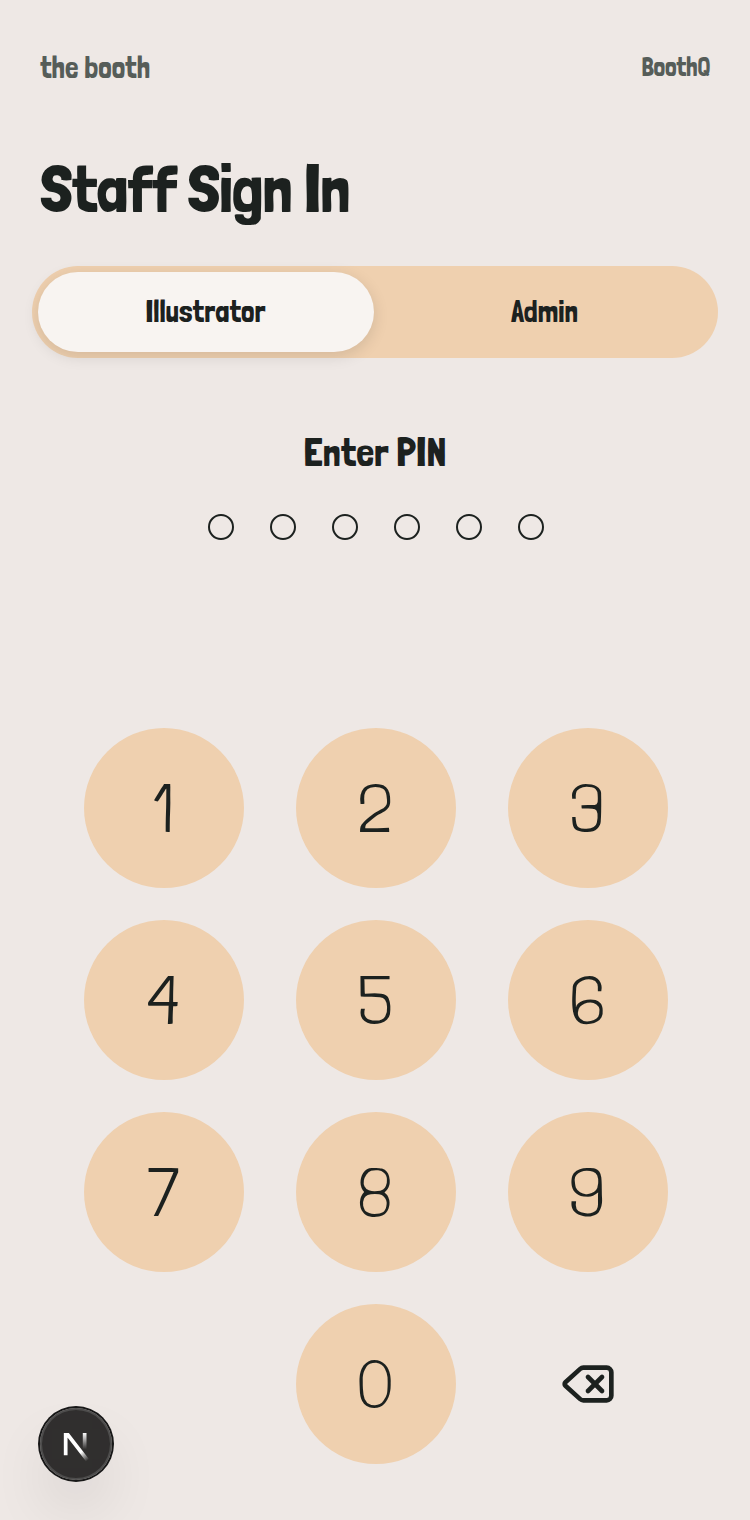
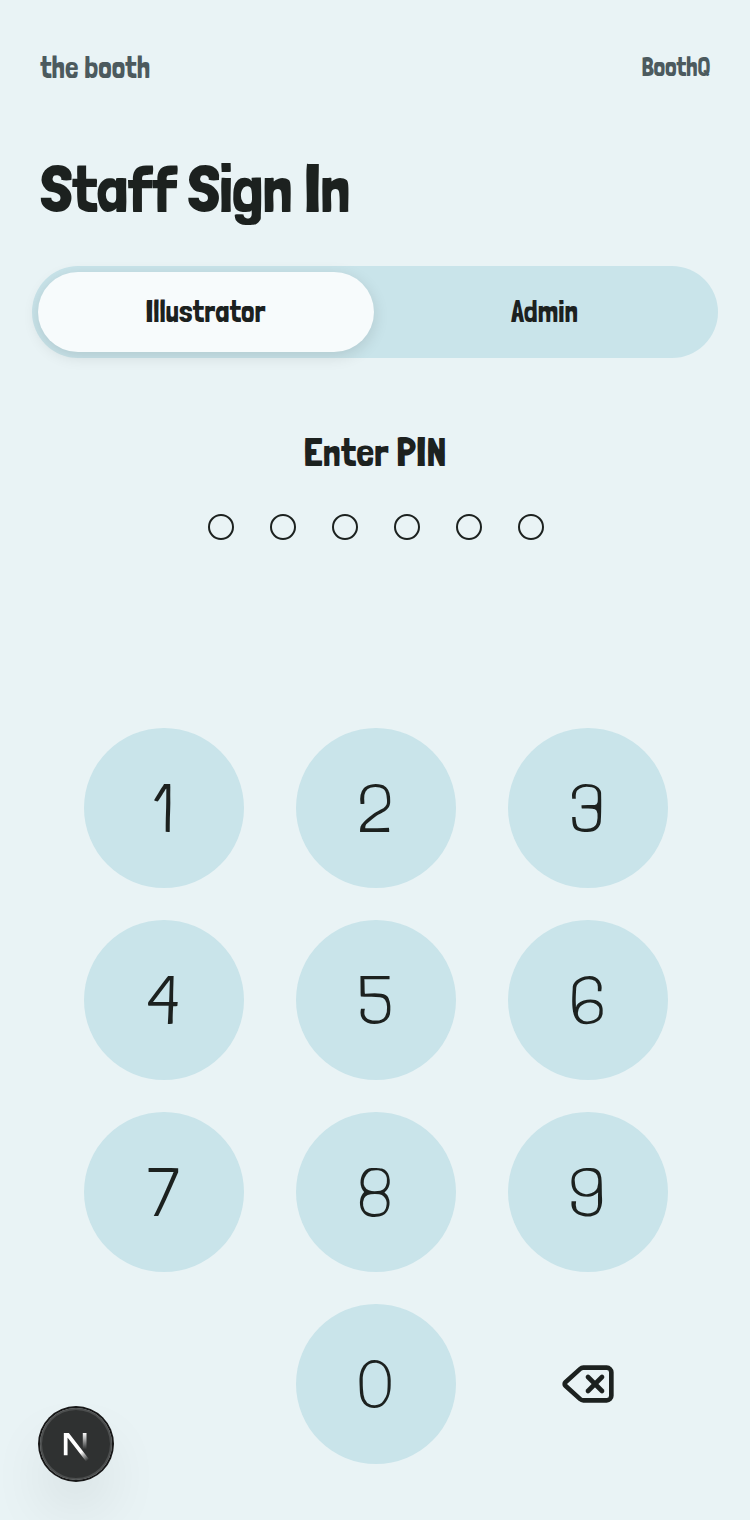
feat(web): make blue primary and mustard the accent
Claude-Session: https://claude.ai/code/session_01Ushnt7UGVZbyXoppf12xAJ

diff --git a/apps/web/app/globals.css b/apps/web/app/globals.css
@@ -5,34 +5,37 @@
 
   --font-body: var(--font-londrina), "Arial Narrow", system-ui, sans-serif;
 
-  /* Palette: mustard #ebac1f, sky #91c8d3, peach #efd0af, ink #1c211f, paper #eee8e5 */
-  --bg: #eee8e5;
-  --card: #f8f4f1;
-  --sheet: #eee8e5;
-  --cell: #f8f4f1;
-  --fill: #efd0af;
+  /* Palette: blue is primary (sky #91c8d3 + deep blue derived from it), mustard #ebac1f is the accent ("pop"),
+     peach #efd0af for warm neutrals, ink #1c211f, paper #eee8e5. */
+  --bg: #e9f3f5;
+  --card: #f7fbfc;
+  --sheet: #e9f3f5;
+  --cell: #f7fbfc;
+  --fill: #c9e4ea;
   --label: #1c211f;
-  --label-2: #565d59;
-  --separator: #d8cec6;
-  --accent: #ebac1f;
-  --on-accent: #1c211f;
-  --link: #266372;
+  --label-2: #4c5a5e;
+  --separator: #cddfe3;
+  --accent: #2a6f80;
+  --on-accent: #ffffff;
+  --pop: #ebac1f;
+  --on-pop: #1c211f;
+  --link: #1f5f70;
   --danger: #b3261e;
   --switch-on: #4f9fae;
-  --ring: #266372;
-  --track: #ddd3cb;
+  --ring: #2a6f80;
+  --track: #d3e3e7;
 
-  --glass: rgba(238, 232, 229, 0.72);
+  --glass: rgba(233, 243, 245, 0.72);
   --glass-edge: rgba(255, 255, 255, 0.9);
   --glass-shadow: 0 8px 28px rgba(28, 33, 31, 0.14);
   --dim: rgba(28, 33, 31, 0.35);
 
-  --status-gray-bg: #ddd3cb;
-  --status-gray-fg: #3b423e;
+  --status-gray-bg: #d6e3e6;
+  --status-gray-fg: #3b4a4d;
   --status-orange-bg: #f9e2b0;
   --status-orange-fg: #6e4300;
-  --status-blue-bg: #d3e9ee;
-  --status-blue-fg: #1d5866;
+  --status-blue-bg: #bfe0e8;
+  --status-blue-fg: #174f5e;
   --status-green-bg: #dbe9d6;
   --status-green-fg: #2a6535;
 }
@@ -40,32 +43,34 @@
 @media (prefers-color-scheme: dark) {
   :root {
     --bg: #1c211f;
-    --card: #262c29;
-    --sheet: #262c29;
-    --cell: #323936;
-    --fill: #3a423e;
+    --card: #242c2d;
+    --sheet: #242c2d;
+    --cell: #2f393b;
+    --fill: #33474c;
     --label: #eee8e5;
-    --label-2: #b4aea8;
-    --separator: #3a423e;
-    --accent: #ebac1f;
+    --label-2: #b4bfc1;
+    --separator: #37454a;
+    --accent: #91c8d3;
     --on-accent: #1c211f;
+    --pop: #ebac1f;
+    --on-pop: #1c211f;
     --link: #91c8d3;
     --danger: #ff8f85;
     --switch-on: #91c8d3;
     --ring: #91c8d3;
-    --track: #3a423e;
+    --track: #37454a;
 
-    --glass: rgba(38, 44, 41, 0.72);
+    --glass: rgba(36, 44, 45, 0.72);
     --glass-edge: rgba(238, 232, 229, 0.14);
     --glass-shadow: 0 8px 28px rgba(0, 0, 0, 0.55);
     --dim: rgba(0, 0, 0, 0.55);
 
-    --status-gray-bg: #3a423e;
-    --status-gray-fg: #e0dad4;
+    --status-gray-bg: #37454a;
+    --status-gray-fg: #dbe6e8;
     --status-orange-bg: #3d2c08;
     --status-orange-fg: #f3bf52;
-    --status-blue-bg: #1c3a42;
-    --status-blue-fg: #a8d6df;
+    --status-blue-bg: #1f4650;
+    --status-blue-fg: #b5dfe8;
     --status-green-bg: #1f3421;
     --status-green-fg: #9fd39b;
   }
@@ -91,6 +96,8 @@
   --color-separator: var(--separator);
   --color-accent: var(--accent);
   --color-on-accent: var(--on-accent);
+  --color-pop: var(--pop);
+  --color-on-pop: var(--on-pop);
   --color-link: var(--link);
   --color-danger: var(--danger);
   --color-switch-on: var(--switch-on);

diff --git a/apps/web/components/customer/CalledTakeover.tsx b/apps/web/components/customer/CalledTakeover.tsx
@@ -5,13 +5,13 @@ type CalledTakeoverProps = {
   onDismiss: () => void;
 };
 
-// Solid --accent with white text in both schemes — the one color
+// Solid --pop with --on-pop text in both schemes — the one color
 // exception in the app (docs/UI.md → Color exceptions). Re-mounted by the
 // parent whenever calledAt changes (recall), even after being dismissed.
 export function CalledTakeover({ number, onDismiss }: CalledTakeoverProps) {
   return (
-    <div className="fixed inset-0 z-50 flex flex-col items-center justify-center gap-3 bg-accent px-6 text-center text-on-accent">
-      <TicketNumber number={number} size="hero" className="text-on-accent" />
+    <div className="fixed inset-0 z-50 flex flex-col items-center justify-center gap-3 bg-pop px-6 text-center text-on-pop">
+      <TicketNumber number={number} size="hero" className="text-on-pop" />
       <span className="text-[26px] font-bold">It&apos;s your turn!</span>
       <span className="text-[17px]">Please come to the booth now.</span>
       <button

diff --git a/apps/web/components/illustrator/IllustratorScreen.tsx b/apps/web/components/illustrator/IllustratorScreen.tsx
@@ -104,7 +104,7 @@ export function IllustratorScreen() {
         type="button"
         aria-label="New Ticket"
         onClick={() => setOverlay({ type: "newTicket" })}
-        className="fixed bottom-[92px] right-4 z-40 flex h-14 w-14 cursor-pointer items-center justify-center rounded-full bg-accent text-on-accent shadow-[0_6px_16px_rgba(235,172,31,0.5)]"
+        className="fixed bottom-[92px] right-4 z-40 flex h-14 w-14 cursor-pointer items-center justify-center rounded-full bg-pop text-on-pop shadow-[0_6px_16px_rgba(235,172,31,0.5)]"
       >
         <Plus className="h-6 w-6" strokeWidth={2.5} aria-hidden="true" />
       </button>

diff --git a/apps/web/components/customer/LineStrip.tsx b/apps/web/components/customer/LineStrip.tsx
@@ -35,7 +35,7 @@ export function LineStrip({ currentNumber, aheadNumbers, waitingAhead, ownNumber
             key={c.key}
             className={clsx(
               "flex h-11 w-11 shrink-0 items-center justify-center rounded-full text-[15px] font-bold tabular-nums",
-              c.mine ? "border-2 border-accent text-accent" : "bg-fill text-label",
+              c.mine ? "bg-pop text-on-pop" : "bg-fill text-label",
             )}
           >
             {c.content}

diff --git a/docs/UI.md b/docs/UI.md
@@ -12,7 +12,7 @@
 - Booth name from `NEXT_PUBLIC_BOOTH_NAME` in headers.
 - The design reference is the Claude Design canvas "BoothQ" (light and dark rows for every screen): <https://claude.ai/artifact/F1etBuSDFs6pshetBxHvti>. Match it.
 
-## Visual style: iOS 27 layout, Londrina + mustard palette (MVP)
+## Visual style: iOS 27 layout, Londrina + blue/mustard palette (MVP)
 
 The app should feel like a native iOS 27 app: Apple's system colors, large titles, inset grouped lists, capsule buttons, and translucent "Liquid Glass" toolbars and floating bars.
 
@@ -27,7 +27,7 @@ The app should feel like a native iOS 27 app: Apple's system colors, large title
 
 - **Inset grouped lists**: rounded containers (radius 24px) on the grouped background, 1px separators inset past the leading icon, 50–64px rows.
 - **Cards**: radius 28px; stat tiles radius 20px.
-- **Buttons**: capsules (`border-radius: 999px`). Primary = accent fill, `--on-accent` text, 56–60px tall. Secondary = gray fill with link-colored text, 52px. Destructive = danger-colored text in its own grouped row.
+- **Buttons**: capsules (`border-radius: 999px`). Primary = `--accent` (blue) fill, `--on-accent` text, 56–60px tall. Secondary = gray fill with link-colored text, 52px. Destructive = danger-colored text in its own grouped row.
 - **Glass surfaces**: top-bar icon buttons (44px circles), floating bottom bars and pills use the glass tokens with `backdrop-filter: blur(24px) saturate(180%)`. Provide a solid fallback (`@supports not (backdrop-filter: blur(1px))` → use `--card`) and honor `prefers-reduced-transparency: reduce` and `prefers-contrast: more` by switching glass to solid `--card`.
 - **Sheets**: float 8px in from the screen edges with 38px corner radius, a glass close (✕) button on the left and a confirm action on the right.
 - **Segmented controls, switches, search field**: iOS style (capsule segmented control on a gray fill; 51×31 green switch; capsule search field).
@@ -40,34 +40,36 @@ The app follows the phone's light/dark setting automatically. There is no in-app
 
 | Token | Light | Dark | Use |
 |---|---|---|---|
-| `--bg` | `#EEE8E5` | `#1C211F` | Page (grouped) background |
-| `--card` | `#F8F4F1` | `#262C29` | Cards, grouped lists |
-| `--sheet` / `--cell` | `#EEE8E5` / `#F8F4F1` | `#262C29` / `#323936` | Sheet background / rows inside sheets |
-| `--fill` | `#EFD0AF` | `#3A423E` | Secondary buttons, number circles, search field |
+| `--bg` | `#E9F3F5` | `#1C211F` | Page (grouped) background |
+| `--card` | `#F7FBFC` | `#242C2D` | Cards, grouped lists |
+| `--sheet` / `--cell` | `#E9F3F5` / `#F7FBFC` | `#242C2D` / `#2F393B` | Sheet background / rows inside sheets |
+| `--fill` | `#C9E4EA` | `#33474C` | Secondary buttons, number circles, search field |
 | `--label` | `#1C211F` | `#EEE8E5` | Primary text |
-| `--label-2` | `#565D59` | `#B4AEA8` | Secondary text (AA contrast on both backgrounds) |
-| `--separator` | `#D8CEC6` | `#3A423E` | List separators |
-| `--accent` | `#EBAC1F` | `#EBAC1F` | Primary button fill (mustard) |
-| `--on-accent` | `#1C211F` | `#1C211F` | Text/icons on `--accent` (white fails AA on mustard) |
-| `--link` | `#266372` | `#91C8D3` | Text buttons, links, tinted icons |
+| `--label-2` | `#4C5A5E` | `#B4BFC1` | Secondary text (AA contrast on both backgrounds) |
+| `--separator` | `#CDDFE3` | `#37454A` | List separators |
+| `--accent` | `#2A6F80` | `#91C8D3` | **Primary** (blue): primary button fill, selected states |
+| `--on-accent` | `#FFFFFF` | `#1C211F` | Text/icons on `--accent` |
+| `--pop` | `#EBAC1F` | `#EBAC1F` | **Accent** (mustard): "your turn" takeover, "You" circle, floating action button |
+| `--on-pop` | `#1C211F` | `#1C211F` | Text/icons on `--pop` (white fails AA on mustard) |
+| `--link` | `#1F5F70` | `#91C8D3` | Text buttons, links, tinted icons |
 | `--danger` | `#B3261E` | `#FF8F85` | Destructive text |
 | `--switch-on` | `#4F9FAE` | `#91C8D3` | Switches, live dots |
-| `--glass` | `rgba(238,232,229,.72)` | `rgba(38,44,41,.72)` | Glass surfaces |
+| `--glass` | `rgba(233,243,245,.72)` | `rgba(36,44,45,.72)` | Glass surfaces |
 | `--glass-edge` | `rgba(255,255,255,.9)` | `rgba(238,232,229,.14)` | Glass 1px border |
 | `--dim` | `rgba(28,33,31,.35)` | `rgba(0,0,0,.55)` | Backdrop behind sheets |
 
-Palette source: mustard `#EBAC1F`, sky `#91C8D3`, peach `#EFD0AF`, ink `#1C211F`, paper `#EEE8E5`; the dark scheme swaps ink and paper and lifts card/fill tones from ink.
+Palette source: sky blue `#91C8D3` (primary family, with a deeper blue `#2A6F80` derived for light-mode buttons/links), mustard `#EBAC1F` (accent), peach `#EFD0AF`, ink `#1C211F`, paper `#EEE8E5`. Dark scheme uses ink as the background and the sky blue as primary.
 
 Status chips (background / text):
 
 | Status | Light | Dark |
 |---|---|---|
-| WAITING, NO_SHOW, CANCELLED (gray) | `#DDD3CB` / `#3B423E` | `#3A423E` / `#E0DAD4` |
+| WAITING, NO_SHOW, CANCELLED (gray) | `#D6E3E6` / `#3B4A4D` | `#37454A` / `#DBE6E8` |
 | CALLED (orange) | `#F9E2B0` / `#6E4300` | `#3D2C08` / `#F3BF52` |
-| SERVING (blue) | `#D3E9EE` / `#1D5866` | `#1C3A42` / `#A8D6DF` |
+| SERVING (blue) | `#BFE0E8` / `#174F5E` | `#1F4650` / `#B5DFE8` |
 | DONE, Open (green) | `#DBE9D6` / `#2A6535` | `#1F3421` / `#9FD39B` |
 
-Exceptions: the customer "It's your turn" takeover is solid `--accent` with `--on-accent` text in both schemes, and the QR code always sits on a white card with black modules (scanners need dark-on-light), even in dark mode.
+Exceptions: the customer "It's your turn" takeover is solid `--pop` with `--on-pop` text in both schemes, and the QR code always sits on a white card with black modules (scanners need dark-on-light), even in dark mode.
 
 ## Shared components
 
